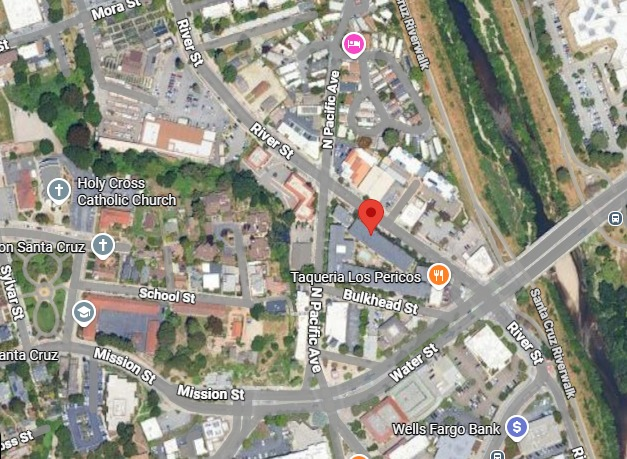
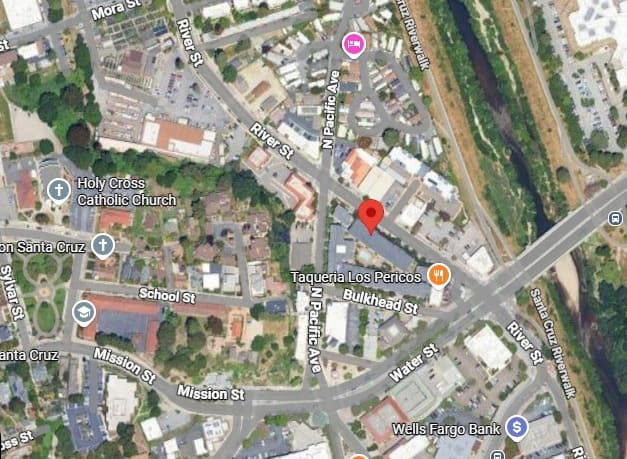
Update contact page images and styles
Replaced placeholder employee images with actual photos and updated their captions in contact.html. Adjusted the page title and fixed a textarea attribute. Modified rafting.css for layout improvements and added specific styles for the map image. Updated map.jpg and added new employee image files.

diff --git a/wwr/contact.html b/wwr/contact.html
@@ -6,7 +6,7 @@
     <meta name="viewport" content="width=device-width, initial-scale=1.0">
     <meta name="description" content="Matheus Luz Rodrigues's BYU-Idaho WWD 130 course WWR Rafting">
     <meta name="author" content="Matheus Luz Rodrigues">
-    <title>About Us</title>
+    <title>Contact Us | Rafting Splash</title>
 
     <link rel="stylesheet" href="styles/rafting.css">
 </head>
@@ -69,7 +69,7 @@
                 </div>
 
                 <label for="message">Message</label>
-                <textarea type="text" id="message" name="message" placeholder="Type here"></textarea>
+                <textarea id="message" name="message" placeholder="Type here"></textarea>
 
                 <label class="checkbox-label" for="subscribe">
                     <input type="checkbox" id="subscribe" name="subscribe">
@@ -87,16 +87,16 @@
 
             <div class="employes-images">
                 <figure>
-                    <img src="images/boats.jpg" alt="">
-                    <figcaption>Bungee Jump</figcaption>
+                    <img src="images/russel.jpg" alt="Russel M. Nelson, the last prophet">
+                    <figcaption>Russel M. Nelson</figcaption>
                 </figure>
                 <figure>
-                    <img src="images/boats.jpg" alt="">
-                    <figcaption>Bungee Jump</figcaption>
+                    <img src="images/dallin.jpg" alt="Dallin H. Oaks, the current prophet">
+                    <figcaption>Dallin H. Oaks</figcaption>
                 </figure>
                 <figure>
-                    <img src="images/boats.jpg" alt="">
-                    <figcaption>Bungee Jump</figcaption>
+                    <img src="images/thomas.jpg" alt="Thomas S. Monson, an old prophet">
+                    <figcaption>Thomas S. Monson</figcaption>
                 </figure>
             </div>
         </section>

diff --git a/wwr/styles/rafting.css b/wwr/styles/rafting.css
@@ -22,6 +22,7 @@ body {
 main p{
     text-align: center;
     padding: 10px;
+    margin-top: 10px ;
 }
 
 /*** GLOBAL LAYOUT WIDTHS ***/
@@ -40,7 +41,6 @@ header {
     padding: 20px;
     gap: 20px;
     margin-bottom: 50px;
-    color: #fff;
 }
 
 header img {
@@ -66,7 +66,6 @@ header li {
 
 header li a{
     text-decoration: none;
-    color: #000;
 }
 
 /*** MAIN HERO ***/
@@ -203,9 +202,8 @@ header li a{
     grid-template-columns: 1fr 1fr;
     gap: 40px;
     margin: 40px auto;
-    max-width: 840px;
+    max-width: 1000px;
     width: 100%;
-    align-items: start;
 }
 
 /*** MAP ***/
@@ -238,6 +236,11 @@ header li a{
     align-items: center;
     grid-template-columns: 2fr 1fr;
     gap: 20px;
+}
+
+.contact-page .map-box img {
+    height: 100%;
+    width: 500px;
 }
 
 /*** RADIO AND CHECKBOX ***/
